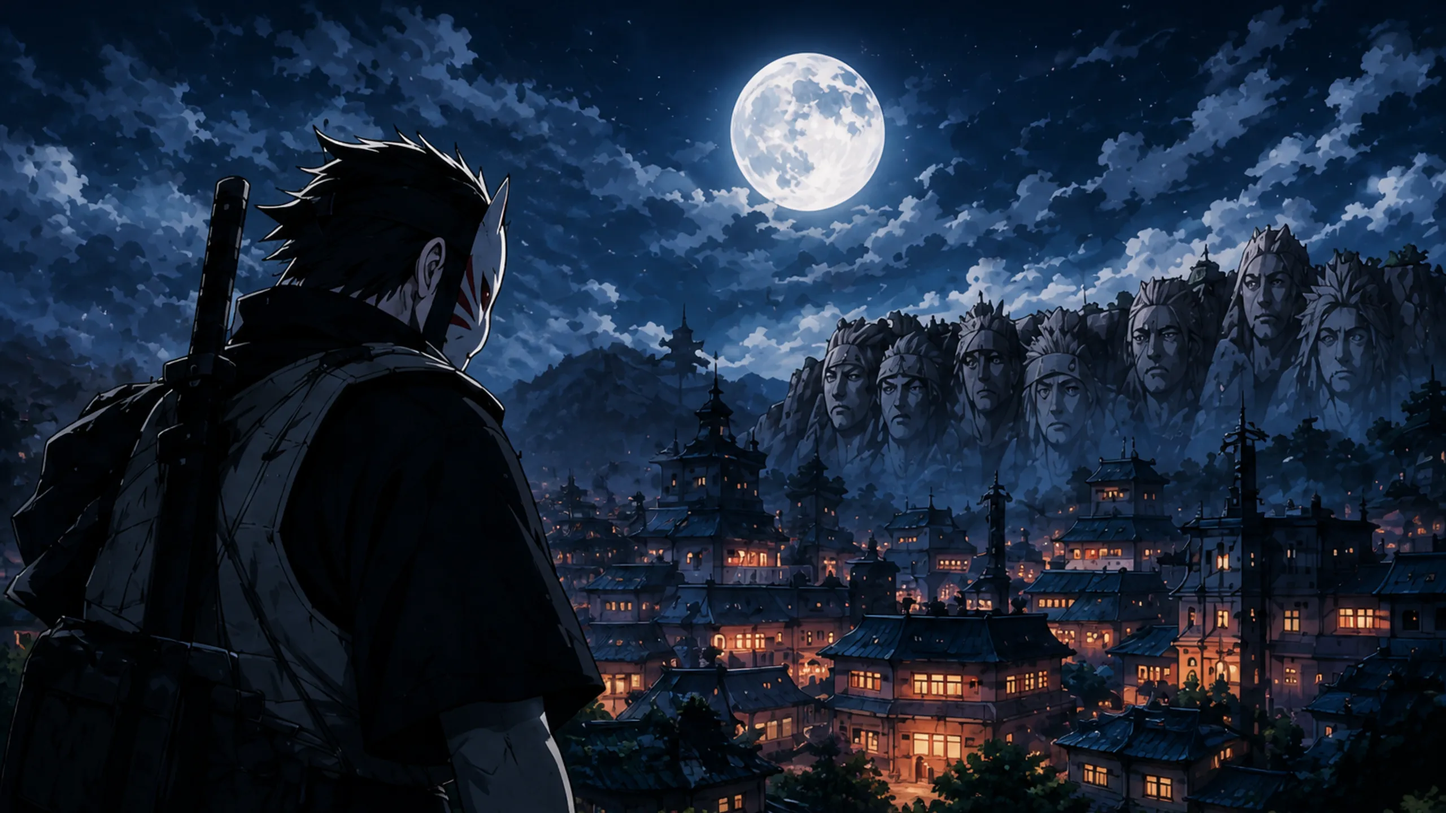
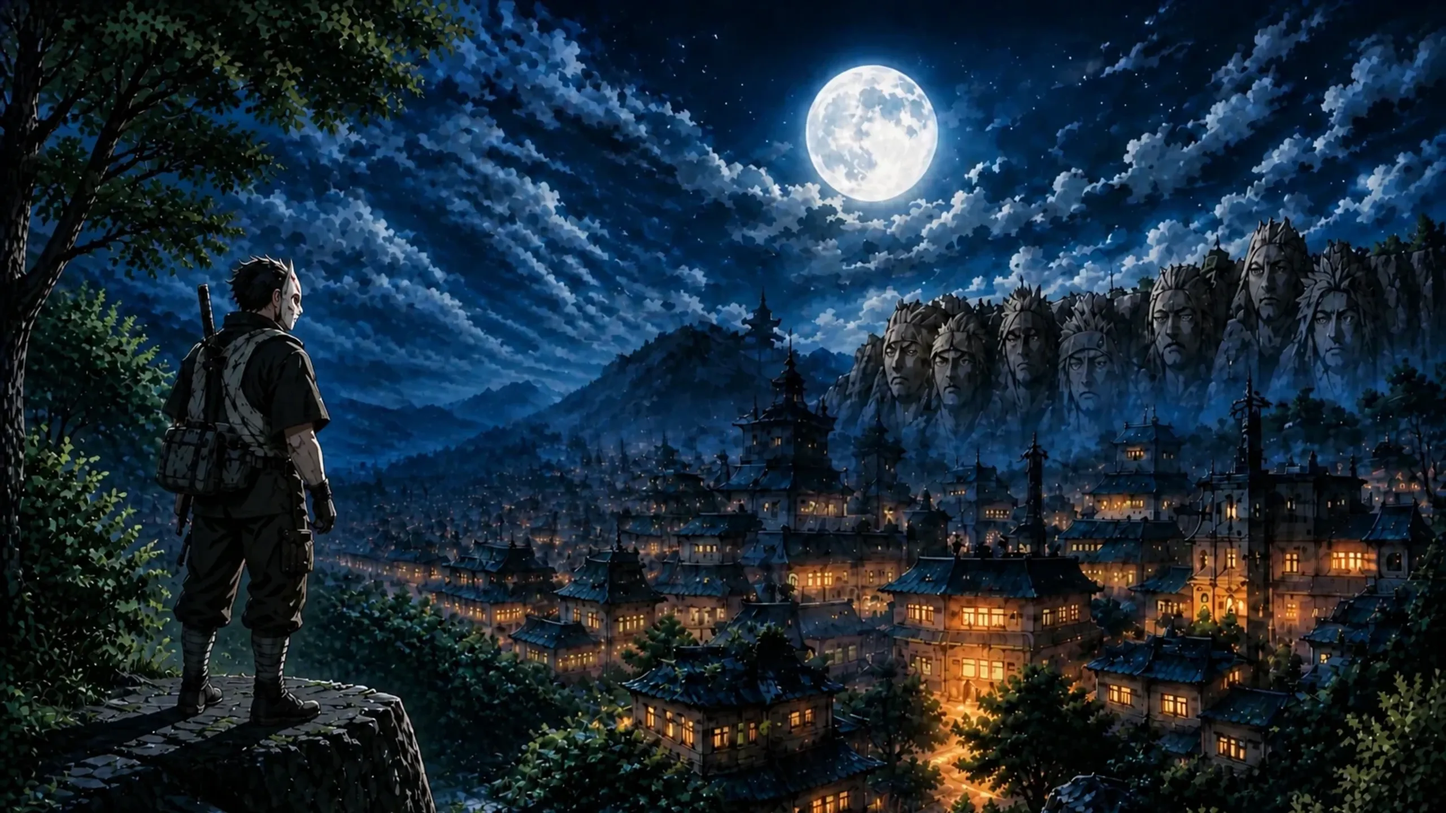
style: 암부 배경 2560×1440 와이드 씬 교체 — 절벽 위 암부 야경

diff --git a/components/Navigation.tsx b/components/Navigation.tsx
@@ -1208,7 +1208,7 @@ export default function Navigation() {
       {theme === "anbu" && (
         <>
           <div className="pointer-events-none fixed inset-0 overflow-hidden" aria-hidden style={{ zIndex: 1 }}>
-            <img src="/images/anbu-bg.png" alt="" style={{
+            <img src="/images/anbu-bg.webp" alt="" style={{
               position: "absolute", inset: 0, width: "100%", height: "100%",
               objectFit: "cover", objectPosition: "center top", opacity: 0.5,
             }} />
